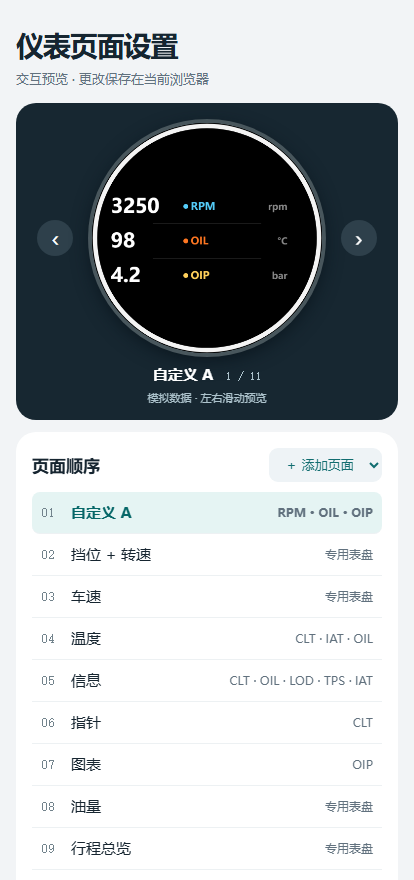
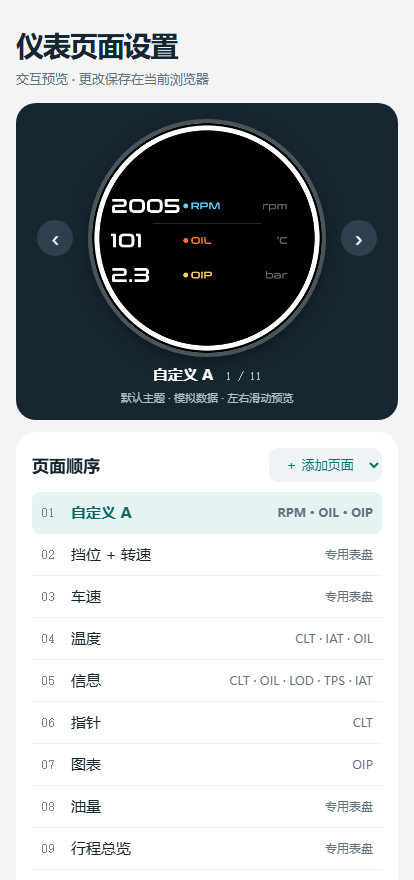
Render configurable gauge previews from native LVGL frames

diff --git a/android_app/app/src/main/assets/gauge-pages/pages.js b/android_app/app/src/main/assets/gauge-pages/pages.js
@@ -2,8 +2,6 @@
 const $ = id => document.getElementById(id);
 const names = ["温度","信息","图表","指针","挡位 + 转速","车速","油量","行程历史","行程总览","自定义 A","自定义 B","自定义 C"];
 const signals = ["CLT 水温","IAT 进气温度","OIL 机油温度","LOD 发动机负荷","TPS 节气门","RPM 转速","SPD 车速","BAT 电压","OIP 机油压力","BKT 刹车温度","BST 增压压力","AFR 空燃比","IGN 点火提前角"];
-const units = ["°C","°C","°C","%","%","rpm","km/h","V","bar","°C","bar",":1","°"];
-const values = ["93","31","98","42","24","3250","86","14.2","4.2","142","0.2","14.7","18"];
 const slots = [[0,1,2],[3,4,5,6,7],[9],[8],[],[],[],[],[],[10,11,12],[13,14,15],[16,17,18]];
 const factory = "4,5,0,1,3,2,6,8,7/0,1,2,0,2,3,4,1,0,8,0,2,8,5,6,4,7,10,11";
 const phone = window.GaugePhone;
@@ -29,49 +27,64 @@ function save() {
   else { try { localStorage.setItem("gauge-layout", saved); } catch {} }
   render();
 }
-const canvas = document.querySelector("canvas"), img = document.querySelector("img");
+const canvas = document.querySelector("#dial canvas");
+const img = document.querySelector("#dial img");
 const ctx = canvas.getContext("2d");
-function text(str,x,y,size,color="#fff",align="center") {
-  ctx.fillStyle=color; ctx.font="600 "+size+"px system-ui,sans-serif"; ctx.textAlign=align;
-  ctx.fillText(str,x,y);
+const side = canvas.width;
+// These rectangles partition a full LVGL framebuffer. Every pixel, including
+// labels, units, scales and the bezel, comes directly from the native renderer.
+const fullFrame = [0, 0, side, side];
+const frameCells = [
+  [[0, 0, side, 203], [0, 203, side, 70], [0, 273, side, 193]],
+  [[0, 0, 233, 197], [233, 0, 233, 197], [0, 197, 233, 104],
+   [233, 197, 233, 104], [0, 301, side, 165]],
+  [fullFrame],
+  [fullFrame]
+];
+let drawRequest = 0;
+let atlasPage = -1;
+let atlasReady;
+
+function loadAtlas(page) {
+  if (page !== atlasPage) {
+    atlasPage = page;
+    const image = new Image();
+    atlasReady = new Promise((resolve, reject) => {
+      image.onload = () => resolve(image);
+      image.onerror = reject;
+    });
+    image.src = "lvgl-" + page + ".png";
+  }
+  return atlasReady;
 }
-function line(x1,y1,x2,y2,color,width=2) {
-  ctx.beginPath(); ctx.strokeStyle=color; ctx.lineWidth=width;ctx.moveTo(x1,y1);ctx.lineTo(x2,y2);ctx.stroke();
-}
-function draw(id) {
-  const fixed=(id>=4 && id<=8) || id===12; img.hidden=!fixed; canvas.hidden=fixed;
-  if(fixed){ img.src="page-"+id+".png"; return; }
-  ctx.fillStyle="#000"; ctx.fillRect(0,0,466,466);
-  ctx.beginPath();ctx.arc(233,233,227,0,2*Math.PI);ctx.strokeStyle="#f4f4f4";ctx.lineWidth=9;ctx.stroke();
-  const fields=slots[id].map(slot=>items[slot]);
-  if(id===0 || id>=9) fields.forEach((v,i)=>{
-    const y=169+i*70, color=["#44aaff","#44ff88","#ff7722","#eabb63","#5fd0a2","#55cdfa","#5dbfec","#e2c65b","#ffd05b","#ed8c6d","#aa9bd5","#76cfd0","#b6be72"][v];
-    text(values[v],38,y+13,40,"#fff","left");
-    ctx.beginPath();ctx.arc(190,y,5,0,2*Math.PI);ctx.fillStyle=color;ctx.fill();
-    text(signals[v].split(" ")[0],200,y+7,21,color,"left");
-    text(units[v],396,y+7,19,"#888","right");
-    if(i<2) line(123,y+35,343,y+35,"#343434",1);
-  });
-  else if(id===1) fields.forEach((v,i)=>{
-    const x=[155,308,233,155,308][i], y=[151,151,246,338,338][i];
-    text(signals[v].split(" ")[0],x,y-23,16,"#75c9cb");text(values[v],x,y+13,34);text(units[v],x,y+34,15,"#99a9b1");
-  });
-  else {
-    const v=fields[0];
-    if(id===3){
-      for(let i=0;i<=32;i++){
-        const a=(140+i*260/32)*Math.PI/180, r=i%4===0?145:155;
-        line(233+r*Math.cos(a),238+r*Math.sin(a),233+166*Math.cos(a),238+166*Math.sin(a),i>25?"#e9985f":"#6e8c95",3);
-      }
-      line(233,238,310,139,"#fb9753",6);
-    }else{
-      for(let i=0;i<4;i++)line(67,164+i*30,399,164+i*30,"#233139");
-      for(let i=1;i<=60;i++){
-        const y=n=>213-18*Math.sin(n*.17)-9*Math.cos(n*.51)-n*.38;
-        line(67+(i-1)*5.5,y(i-1),67+i*5.5,y(i),"#60d4bd",3);
-      }
-    }
-    text(signals[v].split(" ")[0],233,301,21,"#71d7c7");text(values[v]+" "+units[v],233,353,45);
+
+async function draw(id) {
+  const request = ++drawRequest;
+  $("previewError").hidden = true;
+  const fixed = (id >= 4 && id <= 8) || id === 12;
+  img.hidden = !fixed;
+  canvas.hidden = fixed;
+  if (fixed) {
+    img.src = "page-" + id + ".png";
+    return;
+  }
+
+  const page = id >= 9 ? 0 : id;
+  const sources = slots[id].map(slot => items[slot]);
+  ctx.clearRect(0, 0, side, side);
+  try {
+    const atlas = await loadAtlas(page);
+    if (request !== drawRequest) return;
+    frameCells[page].forEach(([x, y, width, height], slot) => {
+      const source = sources[slot];
+      const left = source % 4 * side;
+      const top = Math.floor(source / 4) * side;
+      ctx.drawImage(atlas, left + x, top + y, width, height, x, y, width, height);
+    });
+  } catch {
+    if (request !== drawRequest) return;
+    atlasPage = -1;
+    $("previewError").hidden = false;
   }
 }
 function option(label,value){const el=document.createElement("option");el.textContent=label;el.value=value;return el;}

diff --git a/android_app/app/src/main/assets/gauge-pages/index.html b/android_app/app/src/main/assets/gauge-pages/index.html
@@ -4,7 +4,7 @@
 <title>仪表页面设置</title><link rel="stylesheet" href="pages.css"></head>
 <body><main><header><button id="back" hidden>‹ 仪表设置</button><h1>仪表页面设置</h1><p id="status"></p></header>
 <section class="preview"><div class="stage"><button id="prev" aria-label="上一页">‹</button><div id="dial" role="img" aria-label="模拟仪表"><canvas width="466" height="466"></canvas><img alt="模拟仪表画面" hidden></div><button id="next" aria-label="下一页">›</button></div>
-<div class="caption"><strong id="title"></strong><span id="position"></span></div><small>模拟数据 · 左右滑动预览</small></section>
+<div class="caption"><strong id="title"></strong><span id="position"></span></div><small>默认主题 · 模拟数据 · 左右滑动预览</small><p id="previewError" hidden>仪表预览图未能加载。</p></section>
 <section><div class="heading"><h2>页面顺序</h2><select id="add" aria-label="添加页面"></select></div><div id="pages"></div></section>
 <section id="edit"><div class="heading"><h2 id="editTitle"></h2></div><div id="items"></div><div class="actions"><button id="up">上移</button><button id="down">下移</button><button id="remove">移除页面</button></div></section>
 <p class="foot">版本页保留在末尾，可在仪表上进入设置与配对。移除默认启动页后，下次启动将显示列表首项。</p>

diff --git a/simulator/native_sim.c b/simulator/native_sim.c
@@ -52,12 +52,10 @@ static void show_page(int page)
     sim_ui_show_page(page);
 }
 
-static void save_framebuffer(void)
+static bool write_framebuffer(const char *path)
 {
-    const char *temporary = "preview/lvgl_frame.tmp";
-    const char *final = "preview/lvgl_frame.bmp";
-    FILE *file = fopen(temporary, "wb");
-    if (!file) return;
+    FILE *file = fopen(path, "wb");
+    if (!file) return false;
 
     BITMAPFILEHEADER file_header = {0};
     file_header.bfType = 0x4D42;
@@ -66,8 +64,15 @@ static void save_framebuffer(void)
     fwrite(&file_header, sizeof(file_header), 1, file);
     fwrite(&g_bitmap_info.bmiHeader, sizeof(g_bitmap_info.bmiHeader), 1, file);
     fwrite(g_framebuffer, SIM_W * SIM_H * 4, 1, file);
-    fclose(file);
-    MoveFileExA(temporary, final, MOVEFILE_REPLACE_EXISTING | MOVEFILE_WRITE_THROUGH);
+    bool written = !ferror(file);
+    return fclose(file) == 0 && written;
+}
+
+static void save_framebuffer(void)
+{
+    if (write_framebuffer("preview/lvgl_frame.tmp"))
+        MoveFileExA("preview/lvgl_frame.tmp", "preview/lvgl_frame.bmp",
+                    MOVEFILE_REPLACE_EXISTING | MOVEFILE_WRITE_THROUGH);
 }
 
 static void save_status(void)
@@ -444,7 +449,7 @@ static void update_ui(void)
     disp_item_set_text(ui_NeedleValueLabel, needle, raw[needle], true);
     lv_meter_set_indicator_value(ui_NeedleMeter, ui_NeedleIndic, raw[needle] / ui_disp_item_scale(needle)->div);
     disp_item_set_text(ui_LabelOilPressureText, chart, raw[chart], true);
-    lv_chart_set_next_value(ui_ChartOilPressure, ui_OilPressureChartSeries, raw[chart] / ui_disp_item_scale(chart)->div);
+    lv_chart_set_next_value(ui_ChartOilPressure, ui_OilPressureChartSeries, raw[chart]);
 
     fuel_sample_t fuel_sample = {
         .maf_x100 = (uint16_t)g_data.maf_x100, .afr_x100 = 1470,
@@ -463,10 +468,45 @@ static void update_ui(void)
     ui_trip_history_refresh();
 }
 
+/* Export each data source with the production LVGL screen and font objects.
+ * The last pass is a mixed layout used to check the phone's cell boundaries. */
+static int export_editor_frames(void)
+{
+    const int pages[] = {SIM_PAGE_TEMP, SIM_PAGE_INFO, SIM_PAGE_CHART, SIM_PAGE_NEEDLE};
+    const uint8_t check_sources[] = {5, 2, 8, 7, 5, 11, 6, 12};
+    for (unsigned source = 0; source <= DISP_ITEM_COUNT; ++source) {
+        bool mixed = source == DISP_ITEM_COUNT;
+        nvs_user_cfg_t cfg = *nvs_cfg_get();
+        for (int i = 0; i < 3; ++i)
+            cfg.temp_display_map[i] = mixed ? check_sources[i] : source;
+        for (int i = 0; i < 5; ++i)
+            cfg.info_display_map[i] = mixed ? check_sources[3 + i] : source;
+        cfg.chart_source_idx = cfg.needle_source_idx = mixed ? DISP_ITEM_CLT : source;
+        nvs_cfg_set(&cfg);
+        ui_chart_apply_source();
+        ui_needle_apply_source();
+        /* Replay the same thirty samples for every signal and reference frame. */
+        for (int sample = 0; sample < 30; ++sample) {
+            update_demo(1000U * (sample + 1));
+            update_ui();
+        }
+        for (unsigned page = 0; page < (mixed ? 2U : 4U); ++page) {
+            sim_ui_show_page(pages[page]);
+            lv_refr_now(NULL);
+            char name[48];
+            snprintf(name, sizeof(name), "page-%u-%u.bmp", page, source);
+            if (!write_framebuffer(name)) return 1;
+        }
+    }
+    return 0;
+}
+
 int main(int argc, char **argv)
 {
+    bool export_frames = false;
     for (int i = 1; i < argc; ++i) {
         if (strcmp(argv[i], "--headless") == 0) g_headless = true;
+        else if (strcmp(argv[i], "--export-editor-frames") == 0) { export_frames = true; g_headless = true; }
         else if (strcmp(argv[i], "--demo") == 0) g_force_demo = true;
         else if (strcmp(argv[i], "--elm-host") == 0 && i + 1 < argc) {
             strncpy(g_elm_host, argv[++i], sizeof(g_elm_host) - 1);
@@ -514,6 +554,7 @@ int main(int argc, char **argv)
     }
 
     sim_ui_create_pages();
+    if (export_frames) return export_editor_frames();
 
     DWORD previous = GetTickCount();
     DWORD last_data = 0;

diff --git a/tools/build_gauge_preview_frames.py b/tools/build_gauge_preview_frames.py
@@ -1,0 +1,45 @@
+"""Generate the Android editor's default-theme frames using the built native LVGL simulator."""
+from pathlib import Path
+import subprocess
+import tempfile
+
+from PIL import Image, ImageChops
+
+ROOT = Path(__file__).resolve().parents[1]
+ASSETS = ROOT / "android_app/app/src/main/assets/gauge-pages"
+SIDE = 466
+SOURCES = 13
+# Cuts lie between LVGL cells. Validate mixed frames against native renders before saving.
+TEMP_CELLS = [(0, 0, 466, 203), (0, 203, 466, 273), (0, 273, 466, 466)]
+INFO_CELLS = [(0, 0, 233, 197), (233, 0, 466, 197), (0, 197, 233, 301),
+              (233, 197, 466, 301), (0, 301, 466, 466)]
+
+
+def generate():
+    with tempfile.TemporaryDirectory() as temp:
+        frames = Path(temp)
+        subprocess.run([ROOT / "simulator/build/brz_lvgl_sim.exe", "--export-editor-frames"],
+                       cwd=frames, check=True, timeout=60)
+
+        def frame(page, source):
+            with Image.open(frames / f"page-{page}-{source}.bmp") as bmp:
+                assert bmp.size == (SIDE, SIDE)
+                return bmp.convert("RGB")
+
+        for page, cells, sources in [(0, TEMP_CELLS, [5, 2, 8]), (1, INFO_CELLS, [7, 5, 11, 6, 12])]:
+            composite = Image.new("RGB", (SIDE, SIDE))
+            for box, source in zip(cells, sources):
+                composite.paste(frame(page, source).crop(box), box)
+            difference = ImageChops.difference(composite, frame(page, SOURCES)).getbbox()
+            if difference:
+                raise ValueError(f"Page {page} differs from LVGL in rectangle {difference}")
+
+        for page in range(4):
+            atlas = Image.new("RGB", (4 * SIDE, 4 * SIDE))
+            for source in range(SOURCES):
+                atlas.paste(frame(page, source), (source % 4 * SIDE, source // 4 * SIDE))
+            atlas.save(ASSETS / f"lvgl-{page}.png", optimize=True)
+
+
+if __name__ == "__main__":
+    generate()

diff --git a/simulator/sim_ui_port.c b/simulator/sim_ui_port.c
@@ -479,7 +479,10 @@ void ui_chart_apply_source(void)
     lv_label_set_text(ui_LabelChartUnit, ui_disp_item_unit(item));
     lv_obj_set_style_text_color(ui_LabelChartTitle, lv_color_hex(ui_disp_item_color(item)), LV_PART_MAIN);
     lv_obj_set_style_bg_color(ui_ChartDot, lv_color_hex(ui_disp_item_color(item)), LV_PART_MAIN);
-    lv_chart_set_range(ui_ChartOilPressure, LV_CHART_AXIS_PRIMARY_Y, low, high);
+    lv_color_t color = lv_color_hex(ui_disp_item_color(item));
+    lv_chart_set_series_color(ui_ChartOilPressure, ui_OilPressureChartSeries, color);
+    lv_chart_set_range(ui_ChartOilPressure, LV_CHART_AXIS_PRIMARY_Y, low * div, high * div);
+    lv_chart_set_all_value(ui_ChartOilPressure, ui_OilPressureChartSeries, LV_CHART_POINT_NONE);
 }
 void ui_needle_apply_source(void)
 {

diff --git a/README.md b/README.md
@@ -176,7 +176,7 @@ flowchart LR
 | 🗓 **清晰的月度归档** | 行程和各类账目按月份分隔，记账月份同时显示记录数量与小计，长时间使用后仍便于查找。 |
 | 📱 **自动连接与后台同步** | 绑定后可由系统 BLE 唤醒 App，优先为仪表授时，再同步车辆快照和历史行程；驾驶时常驻通知会直接显示时长与已行驶里程。 |
 | ⚙ **仪表启动与等待通知** | 手机“仪表设置”可选择仪表默认启动页与默认朝向（0°、90°、180°、270°，相对原安装方向），保存后下次上电生效；需升级仪表固件至 4.1.3。Android 未连接仪表时，常驻卡片显示“停车中”、已启用的里程与估算续航（最近同步数据）；“通知管理”提供系统通知设置入口及年审、保险、保养分项提醒开关，前台自动连接服务保持运行。 |
-| 🎚 **仪表页面设置（Android 试用版）** | 在“仪表设置 → 仪表页面设置”左右滑动预览，增删或调整页面顺序。在九个内置页之外可添加三个独立三项页，从 13 种数据源选择显示项目。亮度、启动页、朝向与页面编排可离线保存，重连后自动同步；启动页与朝向下次上电生效。页面编排需配套试用固件 4.1.5-layout.1。 |
+| 🎚 **仪表页面设置（Android 试用版）** | 在“仪表设置 → 仪表页面设置”左右滑动预览固件默认主题的 LVGL 画面，增删或调整页面顺序。在九个内置页之外可添加三个独立三项页，从 13 种数据源选择显示项目。亮度、启动页、朝向与页面编排可离线保存，重连后自动同步；启动页与朝向下次上电生效。页面编排需配套试用固件 4.1.5-layout.1。 |
 | 🎛 **手机端车辆管理** | 在 App 中切换 ZD8/ZC6、调整 10%～100% 日间亮度、校准车辆里程、控制首页卡片，并把设置发送到仪表后回读确认。新版设置按“车辆 / 驾驶 / 应用”归类，应用栏底部保留经典设置入口。 |
 | ✨ **统一的新版界面** | 首页、驾驶足迹、记账、设置、详情页和弹窗采用统一的圆角卡片、状态主视觉与导航层级；App 恢复原有系统字体显示方式；新版首页仍可在车辆设置中回退到经典布局。 |
 | 💬 **问题反馈** | 在“设置 → 应用”中生成脱敏诊断摘要并打开 [GitHub Issues](https://github.com/sisi4376/BRZ-Garage/issues/new)；提交前可以检查和修改全部内容，也可复制反馈模板，不会自动上传车辆记录、账目或完整蓝牙地址。 |
